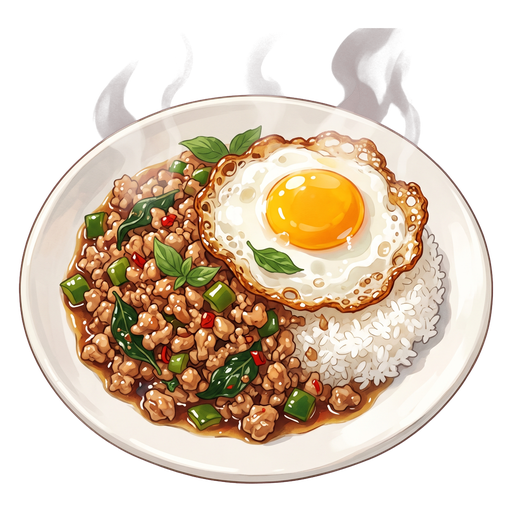
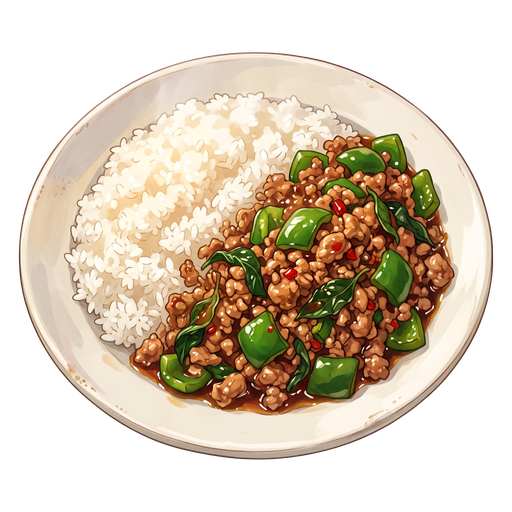
料理データの見直し・おなべの絵・選択肢を難しく
- 料理データ（チームメンバーのお母さんのチェックより）
  - 肉じゃが：炒める → 煮る、酢豚：揚げる → 炒める
  - ダッカルビ → チーズダッカルビ
  - トマトマリネ → ミネストローネ（トマト・肉・玉ねぎ｜コンソメ｜煮る）
  - 画像の作り直し：ロールキャベツ（にんじんが見える）、ガパオライス（卵なし）、ルー（茶色と白）、ミネストローネ（新規）
- 受信側の4択：ひっかけ3つを全部「送った情報に近い料理」にして、かんたんすぎないように
- 一言メモを15語 → 10語に（あまい・からい・すっぱい・まるい・赤い・黄色い・ごはんと食べる・ふわふわ・とろとろ・サクサク）
- 食材を入れるおなべを Gemini の絵に（public/assets/ui/pot.png）
  - process-art.py が鍋の口のカーブで切った pot-front.png も作り、食材が鍋の中に入って見える
- テストを新しいデータに合わせて更新、選択肢のテストを追加（41件）

diff --git a/server/game.js b/server/game.js
@@ -69,29 +69,25 @@ function makeReceiverView(info, difficulty, rng = Math.random) {
 }
 
 // 受信側に見せる料理の選択肢を作る。count が 0 か料理の数以上なら null（＝全部の料理から選ぶ）。
-// 選択肢 = お題 ＋ 送った情報にいちばん近い料理（ひっかけ）＋ のこりはランダム。順番はシャッフル。
+// 選択肢 = お題 ＋ 送った情報に近い順の料理（ぜんぶ ひっかけ）。同点はランダム、順番はシャッフル。
+// ランダムな料理をまぜると「明らかにちがう」選択肢になって、かんたんすぎるため。
 function makeChoices(targetDishId, info, dishes, count, rng = Math.random) {
   if (!(count > 0) || count >= dishes.length) return null;
-  const pick = (list) => list[Math.floor(rng() * list.length)];
-  const others = dishes.filter((d) => d.id !== targetDishId);
+  const others = shuffle(dishes.filter((d) => d.id !== targetDishId), rng)
+    .map((d) => ({ id: d.id, score: scoreDish(info, d).score }))
+    .sort((a, b) => b.score - a.score); // sort は安定なので、同点の中はシャッフルした順のまま
+  const chosen = [targetDishId, ...others.slice(0, count - 1).map((s) => s.id)];
+  // お題がいつも同じ場所にならないように
+  return shuffle(chosen, rng);
+}
 
-  const scored = others.map((d) => ({ id: d.id, score: scoreDish(info, d).score }));
-  const best = Math.max(...scored.map((s) => s.score));
-  const chosen = [targetDishId];
-  if (count >= 2) chosen.push(pick(scored.filter((s) => s.score === best)).id);
-
-  let rest = others.map((d) => d.id).filter((id) => !chosen.includes(id));
-  while (chosen.length < count && rest.length) {
-    const id = pick(rest);
-    chosen.push(id);
-    rest = rest.filter((x) => x !== id);
-  }
-  // シャッフル（お題がいつも同じ場所にならないように）
-  for (let i = chosen.length - 1; i > 0; i--) {
+function shuffle(list, rng) {
+  const a = [...list];
+  for (let i = a.length - 1; i > 0; i--) {
     const j = Math.floor(rng() * (i + 1));
-    [chosen[i], chosen[j]] = [chosen[j], chosen[i]];
+    [a[i], a[j]] = [a[j], a[i]];
   }
-  return chosen;
+  return a;
 }
 
 class GameRoom {

diff --git a/public/js/game/sender.js b/public/js/game/sender.js
@@ -4,7 +4,7 @@ import { Net } from './net.js';
 import { loadBootstrap, resolveResult } from './data.js';
 import { Picker } from './selection.js';
 import { showScreen, currentScreen, onScreen, h } from './screens.js';
-import { iconEl } from '../ui/icons.js';
+import { iconEl, hasAsset } from '../ui/icons.js';
 import { initPage, setPeerStatus, connectPageFeatures } from '../ui/page.js';
 import { renderInfoBoard } from '../ui/infoboard.js';
 import { playSendAnimation, showResult, sparkleOn } from '../ui/animation.js';
@@ -115,8 +115,23 @@ function buildStepScreens() {
 }
 
 // 「おなべ」：選んだ食材が鍋に落ちて入る。3つそろうと湯気が出る。鍋の中の食材を押すと取り出せる
+// assets/ui/pot.png があれば「奥（全体）」→ 食材 →「手前」の順に重ねて、食材が鍋の中に入って見えるようにする。
+// 手前は pot-front.png（process-art.py が作る、鍋の口のカーブで切った絵）。
+// それが無いときは pot.png をふちの高さでまっすぐ切って使う。どちらも無ければCSSで描いた鍋。
 function buildPot(step) {
   const items = h('div', { class: 'pot__items' });
+  if (hasAsset('ui', 'pot')) {
+    const art = (cls, file) => h('img', { class: `pot__art ${cls}`, src: `assets/ui/${file}.png`, alt: '', draggable: 'false' });
+    const el = h('div', { class: 'pot pot--art' },
+      h('div', { class: 'pot__steam' }, h('i'), h('i'), h('i')),
+      art('pot__art--back', 'pot'),
+      items,
+      hasAsset('ui', 'pot-front')
+        ? art('pot__art--front', 'pot-front')
+        : art('pot__art--front pot__art--clip', 'pot'),
+    );
+    return { el, items, lastAdded: null };
+  }
   const el = h('div', { class: 'pot' },
     h('div', { class: 'pot__steam' }, h('i'), h('i'), h('i')),
     h('div', { class: 'pot__back' }),

diff --git a/tests/game.test.js b/tests/game.test.js
@@ -233,6 +233,30 @@ test('makeChoices：送った情報にいちばん近い料理（ひっかけ）
   }
 });
 
+test('makeChoices：ひっかけは全部、送った情報に近い料理から選ぶ（かんたんすぎないように）', () => {
+  const { scoreDish } = require('../server/scoring');
+  const score = (id) => scoreDish(curryInfo, data.dishes.find((d) => d.id === id)).score;
+  for (let n = 0; n < 40; n++) {
+    const c = makeChoices('curry', curryInfo, data.dishes, 4);
+    const decoys = c.filter((id) => id !== 'curry');
+    const left = data.dishes.map((d) => d.id).filter((id) => !c.includes(id));
+    const worstDecoy = Math.min(...decoys.map(score));
+    const bestLeft = Math.max(...left.map(score));
+    assert.ok(worstDecoy >= bestLeft, `${decoys} の中に、選ばれなかった料理より遠いものがある`);
+    // カレーの情報なら、シチューとハヤシライス（80点）は必ず入る
+    assert.ok(c.includes('stew') && c.includes('hayashi'), String(c));
+  }
+});
+
+test('makeChoices：同点のひっかけはランダムに入れかわる', () => {
+  const seen = new Set();
+  for (let n = 0; n < 60; n++) {
+    for (const id of makeChoices('curry', curryInfo, data.dishes, 4)) seen.add(id);
+  }
+  // 60点の牛丼と親子丼は、どちらも出ることがある
+  assert.ok(seen.has('gyudon') && seen.has('oyakodon'), [...seen].join(','));
+});
+
 test('makeChoices：0 や料理の数以上なら null（全部から選ぶ）', () => {
   assert.equal(makeChoices('curry', curryInfo, data.dishes, 0), null);
   assert.equal(makeChoices('curry', curryInfo, data.dishes, undefined), null);

diff --git a/public/css/anime.css b/public/css/anime.css
@@ -490,3 +490,30 @@ body.receiver .has-chara .decor__item:nth-child(n+6) { display: none; }
 
 /* なぞの料理の専用イラスト（dishes/mystery.png）があるときは、色を変えずにそのまま見せる */
 .icon.is-mystery-art { animation: jelly 0.9s ease-in-out infinite; }
+
+/* ---------- おなべの絵（assets/ui/pot.png があるとき） ----------
+   奥（pot.png）→ 食材 → 手前（pot-front.png：鍋の口の中と奥のふちを消した絵）の順に重ねる。
+   食材は鍋の口の中だけに見えて、手前のふちのカーブにそってかくれる。
+   pot-front.png が無いときだけ、pot.png を --pot-rim の高さでまっすぐ切って手前に使う。
+
+   今の鍋の絵（幅360pxで表示、上から98〜380px）：鍋の口は 中心x=180 / はば約263px / 上から128〜238px */
+.pot--art { --pot-rim: 50%; }
+
+/* 食材の下のほうが手前のふちにかくれる高さ */
+.pot--art .pot__items { top: 102px; }
+/* 3つ並んでも鍋の口（はば約263px）に入る大きさ */
+.pot--art .pot__item { margin: 0 -8px; }
+.pot--art .pot__item .icon { width: 104px; height: 104px; font-size: 84px; }
+
+.pot__art {
+  position: absolute;
+  left: 0;
+  bottom: 0;
+  width: 100%;
+  height: auto;
+  pointer-events: none;
+}
+
+.pot__art--back { z-index: 1; filter: drop-shadow(0 16px 12px rgba(60, 40, 30, 0.3)); }
+.pot__art--front { z-index: 3; }
+.pot__art--clip { clip-path: inset(var(--pot-rim) 0 0 0); }

diff --git a/scripts/check-assets.js b/scripts/check-assets.js
@@ -22,6 +22,8 @@ const POSES = {
   receiver: ['idle', 'guide', 'think', 'happy', 'almost', 'oops', 'receive'],
 };
 const BACKGROUNDS = [['sender', 'おくる人の背景'], ['receiver', 'あてる人の背景'], ['cooking', '調理画面の背景']];
+// 画面のパーツ（無ければCSSで描いた見た目になる）
+const UI_PARTS = [['pot', '食材を入れるおなべ']];
 
 let missingTotal = 0;
 let total = 0;
@@ -52,6 +54,13 @@ total += BACKGROUNDS.length;
 missingTotal += bgMissing.length;
 console.log(`■ 背景：${BACKGROUNDS.length - bgMissing.length} / ${BACKGROUNDS.length} 枚あり`);
 for (const [id, label] of bgMissing) console.log(`    まだ無い  public/assets/bg/${id}.jpg   ${label}`);
+console.log('');
+const uiHave = new Set(assets.ui || []);
+const uiMissing = UI_PARTS.filter(([id]) => !uiHave.has(id));
+total += UI_PARTS.length;
+missingTotal += uiMissing.length;
+console.log(`■ 画面のパーツ：${UI_PARTS.length - uiMissing.length} / ${UI_PARTS.length} 枚あり`);
+for (const [id, label] of uiMissing) console.log(`    まだ無い  public/assets/ui/${id}.png   ${label}`);
 console.log('');
 
 console.log(`ぜんぶで ${total - missingTotal} / ${total} 枚。のこり ${missingTotal} 枚は、絵文字や今までの見た目で代わりに表示しています。`);

diff --git a/server/data.js b/server/data.js
@@ -95,6 +95,8 @@ function listAssets() {
     tools: pngIds('tools'),
     // キャラクターのポーズ（public/assets/chara/<sender|receiver>/<pose>.png）
     chara: { sender: pngIds('chara/sender'), receiver: pngIds('chara/receiver') },
+    // 画面のパーツ（public/assets/ui/<name>.png）。pot … 食材を入れるおなべ（無ければCSSで描いた鍋）
+    ui: pngIds('ui'),
     bg,
     sounds,
   };

diff --git a/public/js/game/data.js b/public/js/game/data.js
@@ -27,6 +27,7 @@ function buildGameData({ config, data, assets }) {
         receiver: new Set((assets.chara && assets.chara.receiver) || []),
       },
       bg: assets.bg || {},
+      ui: new Set(assets.ui || []),
       sounds: assets.sounds,
     },
     ...data,

diff --git a/scripts/process-art.py b/scripts/process-art.py
@@ -7,6 +7,8 @@
 - 食材・調味料・道具・料理 → 512×512 の正方形 PNG
 - キャラクター → 高さ 900px までの PNG（縦長のまま）
 - 背景 (bg) → 1920×1080 の JPG（マゼンタ処理はしない）
+- 画面のパーツ (ui) → 縦横 900px までの PNG（形はそのまま）
+  ui/pot は、鍋の口より手前だけの絵 pot-front.png も作る（食材が鍋の中に入って見えるように）
 
 必要なもの：python -m pip install pillow numpy
 """
@@ -15,7 +17,7 @@ import sys
 from pathlib import Path
 
 import numpy as np
-from PIL import Image
+from PIL import Image, ImageDraw
 
 ROOT = Path(__file__).resolve().parent.parent
 RAW = ROOT / "art-raw"
@@ -68,6 +70,50 @@ def fit_height(img, max_h):
     return img.resize((w, max_h), Image.LANCZOS)
 
 
+def fit_box(img, max_side):
+    scale = max_side / max(img.size)
+    if scale >= 1:
+        return img
+    return img.resize((round(img.width * scale), round(img.height * scale)), Image.LANCZOS)
+
+
+def pot_front(img):
+    """おなべの「手前」だけの絵を作る。鍋の口の中（暗い茶色）と、口の真ん中より上（奥のふち）を消す。
+    ゲームでは 奥（pot.png）→ 食材 → 手前（pot-front.png）の順に重ねるので、
+    食材は鍋の口の中だけに見えて、手前のふちのカーブにそってかくれる。"""
+    a = np.asarray(img.convert("RGBA")).astype(np.float32)
+    r, g, b, al = a[..., 0], a[..., 1], a[..., 2], a[..., 3]
+    h, w = al.shape
+    # 鍋の中：暗い茶色（赤い鍋の色・こい影の線・クリーム色のふちは入らない）
+    inside = (al > 200) & (r + g + b < 360) & (g > r * 0.45)
+    # 真ん中の列でいちばん長く続く「中」の、まん中を種にして、つながっている所だけを取る
+    col = inside[:, w // 2]
+    best, start = (0, 0), None
+    for y in range(h + 1):
+        if y < h and col[y]:
+            start = y if start is None else start
+        elif start is not None:
+            if y - start > best[1] - best[0]:
+                best = (start, y)
+            start = None
+    if best[1] - best[0] < h * 0.1:
+        raise ValueError("鍋の口（暗い茶色の部分）が見つかりません")
+    # numpy から作った画像は読み取り専用なので copy() してから塗る
+    mask = Image.fromarray((inside * 255).astype(np.uint8), "L").copy()
+    ImageDraw.floodfill(mask, (w // 2, (best[0] + best[1]) // 2), 128)
+    ys, xs = np.nonzero(np.asarray(mask) == 128)
+    cx, cy = (xs.min() + xs.max()) / 2, (ys.min() + ys.max()) / 2
+    rx, ry = (xs.max() - xs.min()) / 2, (ys.max() - ys.min()) / 2
+    # 楕円の外ほど 1 より大きい。ふちは 2px ぶん ぼかす
+    yy, xx = np.mgrid[0:h, 0:w]
+    d = np.sqrt(((xx - cx) / rx) ** 2 + ((yy - cy) / ry) ** 2)
+    keep = np.clip((d - 1.0) * min(rx, ry) / 2.0, 0.0, 1.0)
+    keep[yy < cy] = 0.0
+    a[..., 3] = al * keep
+    print(f"      鍋の口：中心 ({cx / w:.0%}, {cy / h:.0%})  はば {2 * rx / w:.0%}  高さ {2 * ry / h:.0%}")
+    return Image.fromarray(a.clip(0, 255).astype(np.uint8), "RGBA")
+
+
 def cover(img, w, h):
     scale = max(w / img.width, h / img.height)
     img = img.resize((round(img.width * scale), round(img.height * scale)), Image.LANCZOS)
@@ -89,6 +135,13 @@ def process(src):
             dst = OUT / rel.with_suffix(".png")
             dst.parent.mkdir(parents=True, exist_ok=True)
             fit_height(trim(key_magenta(im), 0.02), 900).save(dst, optimize=True)
+        elif kind == "ui":
+            dst = OUT / rel.with_suffix(".png")
+            dst.parent.mkdir(parents=True, exist_ok=True)
+            art = fit_box(trim(key_magenta(im), 0.0), 900)
+            art.save(dst, optimize=True)
+            if rel.stem == "pot":
+                pot_front(art).save(dst.with_name("pot-front.png"), optimize=True)
         elif kind in SQUARE_KINDS:
             dst = OUT / rel.with_suffix(".png")
             dst.parent.mkdir(parents=True, exist_ok=True)

diff --git a/docs/ART_PROMPTS.md b/docs/ART_PROMPTS.md
@@ -115,7 +115,7 @@ Keep the bottles **without readable labels** (just colored labels or simple shap
 | `sauce.png` | a Japanese brown okonomiyaki sauce bottle, dark sauce, plain label with no text |
 | `ketchup.png` | a red squeeze ketchup bottle, plain label with no text |
 | `soysauce.png` | a small glass soy sauce dispenser with red cap, dark soy sauce inside |
-| `roux.png` | a block of Japanese curry roux broken into squares, brown, on its plastic tray |
+| `roux.png` | two blocks of Japanese roux side by side on plastic trays, broken into squares: one brown curry roux and one creamy white stew roux |
 | `cheese.png` | a wedge of yellow cheese with holes and a small pile of shredded cheese |
 | `vinegar.png` | a clear glass bottle of rice vinegar, pale gold liquid, plain label with no text |
 | `saltpepper.png` | a salt-and-pepper shaker set, white and black, wooden caps |
@@ -138,7 +138,7 @@ Each dish is served on a plate or bowl, freshly cooked, with a little steam.
 | Save as `art-raw/dishes/…` | Subject |
 |---|---|
 | `hoikoro.png` | Hoikoro: stir-fried pork belly, cabbage and green pepper in glossy red chili bean sauce, on a white plate |
-| `rollcabbage.png` | Japanese cabbage rolls in clear golden consommé soup, in a shallow bowl |
+| `rollcabbage.png` | Japanese cabbage rolls in clear golden consommé soup in a shallow bowl, with large bright orange carrot chunks clearly visible in the soup next to the rolls |
 | `okonomiyaki.png` | okonomiyaki pancake with brown sauce, mayonnaise zigzag, bonito flakes and green seaweed, on a plate |
 | `nikuzume.png` | green peppers stuffed with meat, pan-fried, with ketchup sauce, on a plate |
 | `nikujaga.png` | nikujaga: simmered beef, potatoes, onion and carrot in sweet soy broth, in a Japanese bowl |
@@ -146,9 +146,9 @@ Each dish is served on a plate or bowl, freshly cooked, with a little steam.
 | `stew.png` | Japanese cream stew with chicken, potato and carrot in a white sauce, in a deep bowl |
 | `dakgalbi.png` | cheese dakgalbi: spicy chicken and vegetables in a hot pan with stretchy melted cheese |
 | `hamburg.png` | Japanese hamburg steak with shiny demi-glace sauce, with a side of vegetables on a plate |
-| `gapao.png` | gapao rice: Thai basil minced meat with green pepper over rice, topped with a fried egg |
+| `gapao.png` | gapao rice: Thai basil minced meat with lots of green bell pepper pieces next to white rice on a plate, no egg |
 | `tacorice.png` | Okinawan taco rice: seasoned ground meat, shredded lettuce, tomato and cheese over rice |
-| `tomatomarine.png` | tomato marinade salad with sliced tomato, onion and thin meat, glossy dressing, in a glass bowl |
+| `minestrone.png` | minestrone: red tomato soup with small pieces of meat, onion and tomato, in a deep soup bowl |
 | `subuta.png` | sweet-and-sour pork: crispy fried pork, carrot and green pepper in shiny sweet-and-sour sauce |
 | `gyudon.png` | gyudon: thin simmered beef and onion over rice in a large donburi bowl |
 | `oyakodon.png` | oyakodon: chicken and soft fluffy egg over rice in a donburi bowl |
@@ -161,6 +161,19 @@ Each dish is served on a plate or bowl, freshly cooked, with a little steam.
 | `consommesoup.png` | clear golden consommé soup with cabbage, carrot and onion pieces, in a soup cup |
 | `hayashi.png` | hayashi rice: glossy dark brown beef and onion sauce next to white rice, on a plate |
 | `mystery.png` | a funny weird mystery dish: neon-green and bright-blue bubbling goo on a plate (no purple or pink) with a cute confused face drawn in it, swirls of odd-colored steam (for the "なぞの料理" result) |
+
+---
+
+### Redo list (2026-10-18, after a cooking check from a teammate's mom)
+
+These four changed. Make them in the dishes chat (or a new chat with the START message above), save with the same names, and run the script again.
+
+| Save as | Why |
+|---|---|
+| `art-raw/dishes/rollcabbage.png` | the carrot must be easy to see (it's one of the 3 ingredients) |
+| `art-raw/dishes/gapao.png` | the old picture had a fried egg, but egg isn't one of its ingredients |
+| `art-raw/dishes/minestrone.png` | new dish (replaces トマトマリネ) |
+| `art-raw/seasonings/roux.png` | the same ルー is used for curry, hayashi **and** cream stew, so show brown and white roux together |
 
 ---
 
@@ -184,6 +197,18 @@ Reply "OK" and wait for my next message.
 
 ---
 
+## 7. Game parts (1)
+
+Use the same START message as sections 2–5 (new chat, or continue the tools chat). Attach `tools/simmer.png` as a style reference.
+
+| Save as `art-raw/ui/…` | Subject |
+|---|---|
+| `pot.png` | a big round cooking pot for a kids' cooking game, warm red-orange enamel with a cream-colored rim and two small round side handles, seen from a slightly high angle so the wide open top is clearly visible as an oval, the inside is empty and dark brown, no lid, no food, no steam, no stove. The pot is wider than it is tall. |
+
+This is the pot the sender drops ingredients into. The game draws it twice (once behind the ingredients, once in front, cut at the rim), so the **open top must be clearly visible** and the pot must be **empty**.
+
+---
+
 ## Checklist
 
 When you've saved a batch, tell me and I'll run the script and wire them in.
@@ -194,5 +219,6 @@ When you've saved a batch, tell me and I'll run the script and wire them in.
 - [ ] Tools: 5
 - [ ] Dishes: 24
 - [ ] Backgrounds: 3
+- [ ] Game parts: 1 (pot)
 
 **Priority if time is short:** characters → dishes → backgrounds → ingredients → tools → seasonings. Anything missing falls back to the old image or emoji, so the game always works.

diff --git a/README.md b/README.md
@@ -122,6 +122,7 @@ npm run check-assets  … まだ画像が無い食材・料理などの一覧
 | なぞの料理 | `public/assets/dishes/mystery.png` | 同上（無ければ作れた料理を変な色で表示） |
 | キャラクター | `public/assets/chara/<sender か receiver>/<ポーズ>.png` | 背景透過 PNG（縦長） |
 | 背景 | `public/assets/bg/<sender / receiver / cooking>.jpg` | 1920×1080 |
+| おなべ（食材の画面） | `public/assets/ui/pot.png` | 横幅 900px まで・背景透過（無ければCSSで描いた鍋） |
 | 効果音 | `public/assets/sounds/<名前>.mp3`（`.wav` `.ogg` も可） | — |
 
 ID は `data/` の JSON を見てください（例：`meat.png`、`curry.png`、`simmer.png`）。
